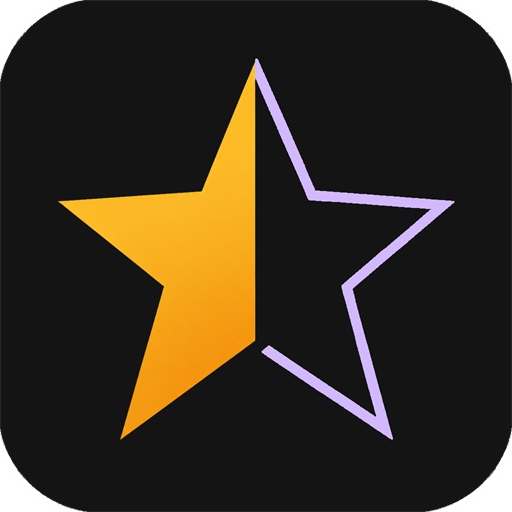
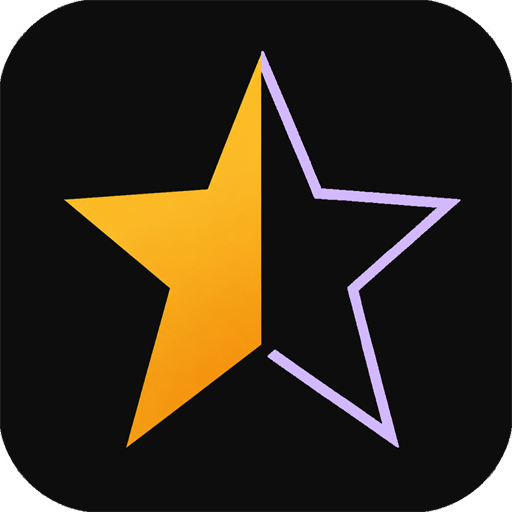
Desktop update Wed 05/13/2026  7:01:02.41

diff --git a/assets/public/index.html b/assets/public/index.html
@@ -26,12 +26,12 @@
 <meta name="mobile-web-app-capable" content="yes">
 <meta name="apple-mobile-web-app-status-bar-style" content="black-translucent">
 <meta name="apple-mobile-web-app-title" content="Shelfd">
-<link rel="icon" href="/favicon.ico?v=911_pwa_home_icon_star_v2" sizes="any">
+<link rel="icon" href="/favicon.ico?v=912_pwa_home_icon_star_v3" sizes="any">
 <link rel="icon" type="image/png" sizes="32x32" href="/icon-32.png?v=643_revert_old_icon_again">
-<link rel="icon" type="image/png" sizes="192x192" href="/icon-192.png?v=911_pwa_home_icon_star_v2">
-<link rel="icon" type="image/png" sizes="512x512" href="/icon-512.png?v=911_pwa_home_icon_star_v2">
-<link rel="apple-touch-icon" sizes="180x180" href="/apple-touch-icon.png?v=911_pwa_home_icon_star_v2">
-<link rel="manifest" href="/site.webmanifest?v=911_pwa_home_icon_star_v2">
+<link rel="icon" type="image/png" sizes="192x192" href="/icon-192.png?v=912_pwa_home_icon_star_v3">
+<link rel="icon" type="image/png" sizes="512x512" href="/icon-512.png?v=912_pwa_home_icon_star_v3">
+<link rel="apple-touch-icon" sizes="180x180" href="/apple-touch-icon.png?v=912_pwa_home_icon_star_v3">
+<link rel="manifest" href="/site.webmanifest?v=912_pwa_home_icon_star_v3">
 
 <meta property="og:title" content="Shelfd">
 <meta property="og:description" content="Track your shows, movies, anime, games, books, and more.">
@@ -98,8 +98,8 @@
 <link rel="stylesheet" href="/css/16-light-mode-contrast.css?v=900_activity_spacing_tune">
 <link rel="stylesheet" href="/css/17-auth-flow-setup.css?v=909_remove_creator_divider">
 
-<meta name="screenlist-build-version" content="2026-05-13-v911_pwa_home_icon_star_v2">
-<script>window.SCREENLIST_BUILD_VERSION = "2026-05-13-v911_pwa_home_icon_star_v2"; window.SCREENLIST_DISPLAY_VERSION = "v.911-May 13th, 2026";</script>
+<meta name="screenlist-build-version" content="2026-05-13-v912_pwa_home_icon_star_v3">
+<script>window.SCREENLIST_BUILD_VERSION = "2026-05-13-v912_pwa_home_icon_star_v3"; window.SCREENLIST_DISPLAY_VERSION = "v.912-May 13th, 2026";</script>
 <script>
   window.__shelfdGuestContinueQueued = false;
   window.continueWithoutSignIn = window.continueWithoutSignIn || function() {
@@ -1638,7 +1638,7 @@
      graceful auto-reload via 00-live-update-pwa.js. */
   if ('serviceWorker' in navigator) {
     window.addEventListener('load', () => {
-      navigator.serviceWorker.register('/sw.js?v=911-pwa-home-icon-star-v2', { updateViaCache: 'none' })
+      navigator.serviceWorker.register('/sw.js?v=912-pwa-home-icon-star-v3', { updateViaCache: 'none' })
         .then(registration => {
           if (registration && typeof registration.update === 'function') {
             registration.update().catch(error => console.warn('Shelfd service worker update check failed:', error));

diff --git a/assets/public/sw.js b/assets/public/sw.js
@@ -6,7 +6,7 @@
    bump, the SW bytes were byte-identical across deploys, no new install
    happened, and PWAs sat on stale JS until the user manually deleted
    and re-added the home-screen app. */
-const CACHE = 'shelfd-v911-pwa-home-icon-star-v2';
+const CACHE = 'shelfd-v912-pwa-home-icon-star-v3';
 
 const STATIC_CACHE_PATHS = [
   '/icon-192.png',
